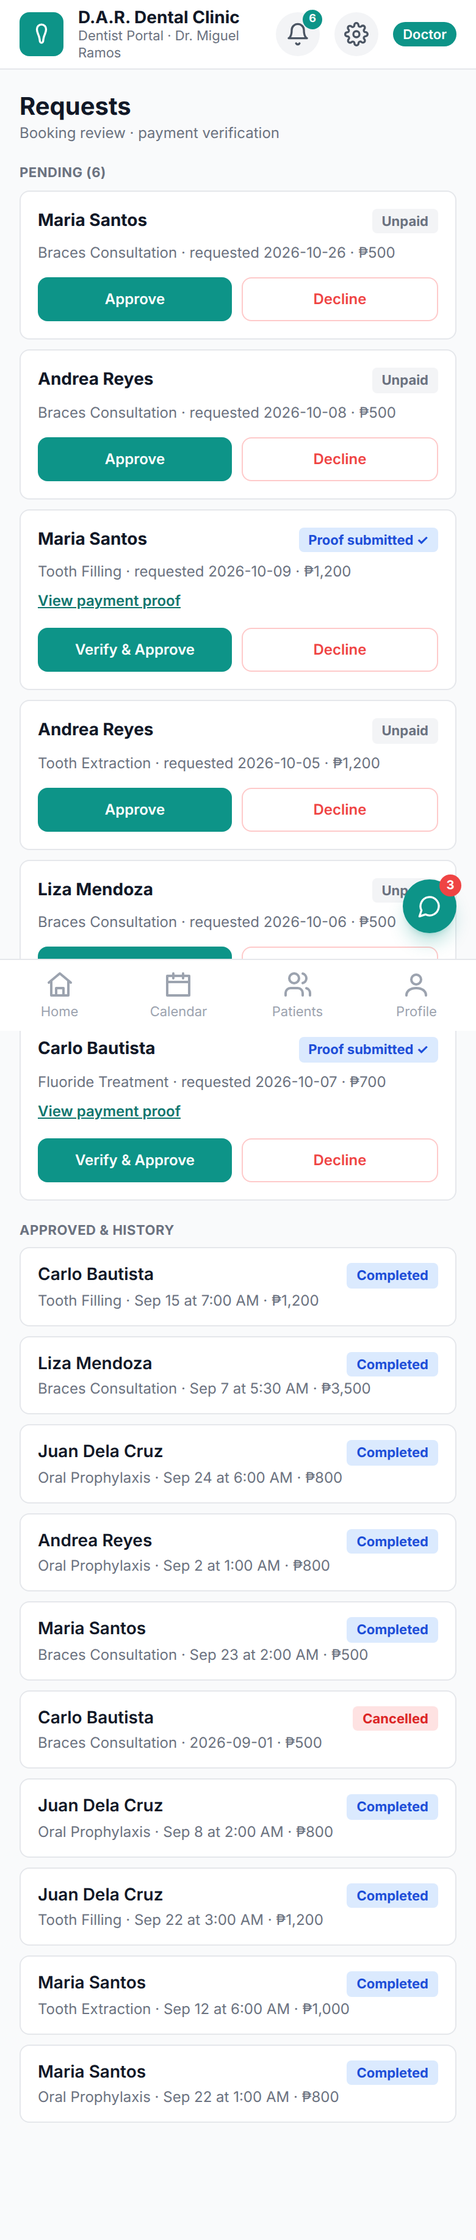
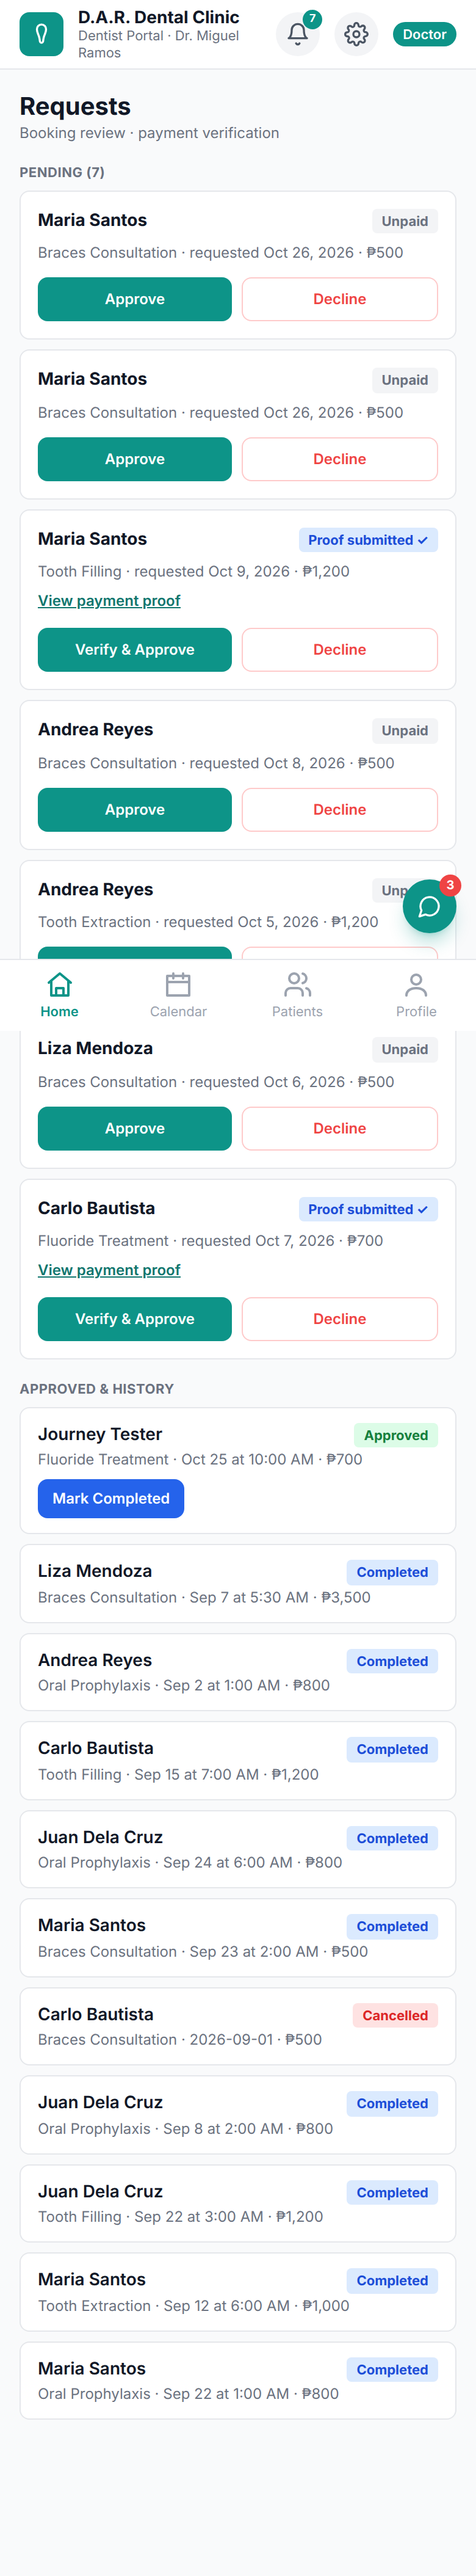
fix: nav active-state (only current tab teal), requests date formats + bottom clearance, chat dedupe
- Navbar: 'path === activePath' compared the same value for every item so ALL
  tabs rendered active — now 'l.path === activePath'; sub-routes (EHR, pay,
  notifications, settings, security) map to their Figma parent tab
- Requests: ISO dates now formatted consistently (was raw '2026-09-01')
- pb-28 main + h-24 spacers so last cards clear the fixed nav/FAB
- screenshots refreshed from fixed build

diff --git a/frontend/src/pages/doctor/Requests.jsx b/frontend/src/pages/doctor/Requests.jsx
@@ -13,6 +13,8 @@ const STATUS_PILL = {
   cancelled: 'bg-red-100 text-red-600',
 }
 
+const fmtDate = (d) => d ? new Date(d + 'T00:00:00').toLocaleDateString('en-PH', { month: 'short', day: 'numeric', year: 'numeric' }) : ''
+
 function ProofModal({ apptId, onClose }) {
   const [proofs, setProofs] = useState(null)
   useEffect(() => {
@@ -70,7 +72,7 @@ export default function Requests() {
             <h3 className="text-sm font-bold text-gray-900 mt-2">Confirm Patient Appointment</h3>
             <p className="text-xs text-gray-600 mt-2 leading-relaxed">
               Accept appointment request for <b>{confirming.patients?.full_name}</b> on{' '}
-              <b className="text-primary-700">{confirming.when ? new Date(confirming.when).toLocaleString('en-PH', { month: 'short', day: 'numeric', hour: 'numeric', minute: '2-digit' }) : confirming.requested_date}</b> for <b>{confirming.services?.name}</b>? A
+              <b className="text-primary-700">{confirming.when ? new Date(confirming.when).toLocaleString('en-PH', { month: 'short', day: 'numeric', hour: 'numeric', minute: '2-digit' }) : fmtDate(confirming.requested_date)}</b> for <b>{confirming.services?.name}</b>? A
               confirmation notification will be sent to the patient.
             </p>
             <div className="bg-green-50 text-green-700 text-xs font-semibold rounded-full px-3 py-1.5 mt-3 flex items-center justify-center gap-1.5">
@@ -107,7 +109,7 @@ export default function Requests() {
                   {a.payment_status === 'submitted' ? 'Proof submitted ✓' : 'Unpaid'}
                 </span>
               </div>
-              <div className="text-xs text-gray-500">{a.services?.name} · requested {a.requested_date} · {peso(a.price ?? a.services?.price)}</div>
+              <div className="text-xs text-gray-500">{a.services?.name} · requested {fmtDate(a.requested_date)} · {peso(a.price ?? a.services?.price)}</div>
               {a.notes && <div className="text-xs text-gray-500 bg-gray-50 border border-gray-100 rounded-lg px-2.5 py-1.5 italic">"{a.notes}"</div>}
 
               {a.payment_status === 'submitted' && (

diff --git a/frontend/src/navigation/Navbar.jsx b/frontend/src/navigation/Navbar.jsx
@@ -18,7 +18,14 @@ export default function Navbar({ pendingCount = 0 }) {
   const navigate = useNavigate()
   const links = NAV_BY_ROLE[role] ?? []
   const matches = links.filter((l) => path === l.path || (l.path !== '/' && path.startsWith(l.path + '/')))
+  // ponytail: sub-routes (EHR, pay, settings…) map to their parent tab per the Figma frames
+  const SUFFIX_TAB = {
+    '/ehr': 'Patients', '/notifications': 'Home', '/settings': 'Home',
+    '/security': 'Profile', '/pay': 'Book', '/receipt': 'Appointments',
+  }
+  const suffixHit = Object.entries(SUFFIX_TAB).find(([sfx]) => path.endsWith(sfx))
   const activePath = matches.sort((a, b) => b.path.length - a.path.length)[0]?.path
+    ?? (suffixHit ? links.find((l) => l.label === suffixHit[1])?.path : undefined)
   const roleBase = role === 'patient' ? '' : '/' + role
 
   return (
@@ -55,9 +62,9 @@ export default function Navbar({ pendingCount = 0 }) {
         <div className="max-w-md mx-auto flex">
           {links.map((l) => (
             <button key={l.path} onClick={() => navigate(l.path)}
-                    className={'flex-1 flex flex-col items-center gap-0.5 py-2 ' + (path === activePath ? 'text-primary-600' : 'text-gray-400')}>
-              <TabIcon name={l.icon} active={path === activePath} />
-              <span className={'text-[11px] ' + (path === activePath ? 'font-semibold text-primary-600' : 'text-gray-400')}>{l.label}</span>
+                    className={'flex-1 flex flex-col items-center gap-0.5 py-2 ' + (l.path === activePath ? 'text-primary-600' : 'text-gray-400')}>
+              <TabIcon name={l.icon} active={l.path === activePath} />
+              <span className={'text-[11px] ' + (l.path === activePath ? 'font-semibold text-primary-600' : 'text-gray-400')}>{l.label}</span>
             </button>
           ))}
         </div>

diff --git a/frontend/src/App.jsx b/frontend/src/App.jsx
@@ -101,7 +101,7 @@ function Shell() {
     <>
       <div className="max-w-md mx-auto bg-gray-50 min-h-screen shadow-sm">
         <Navbar pendingCount={pendingCount} />
-        <main className="pb-20">
+        <main className="pb-28">
           <Routes />
         </main>
       </div>
